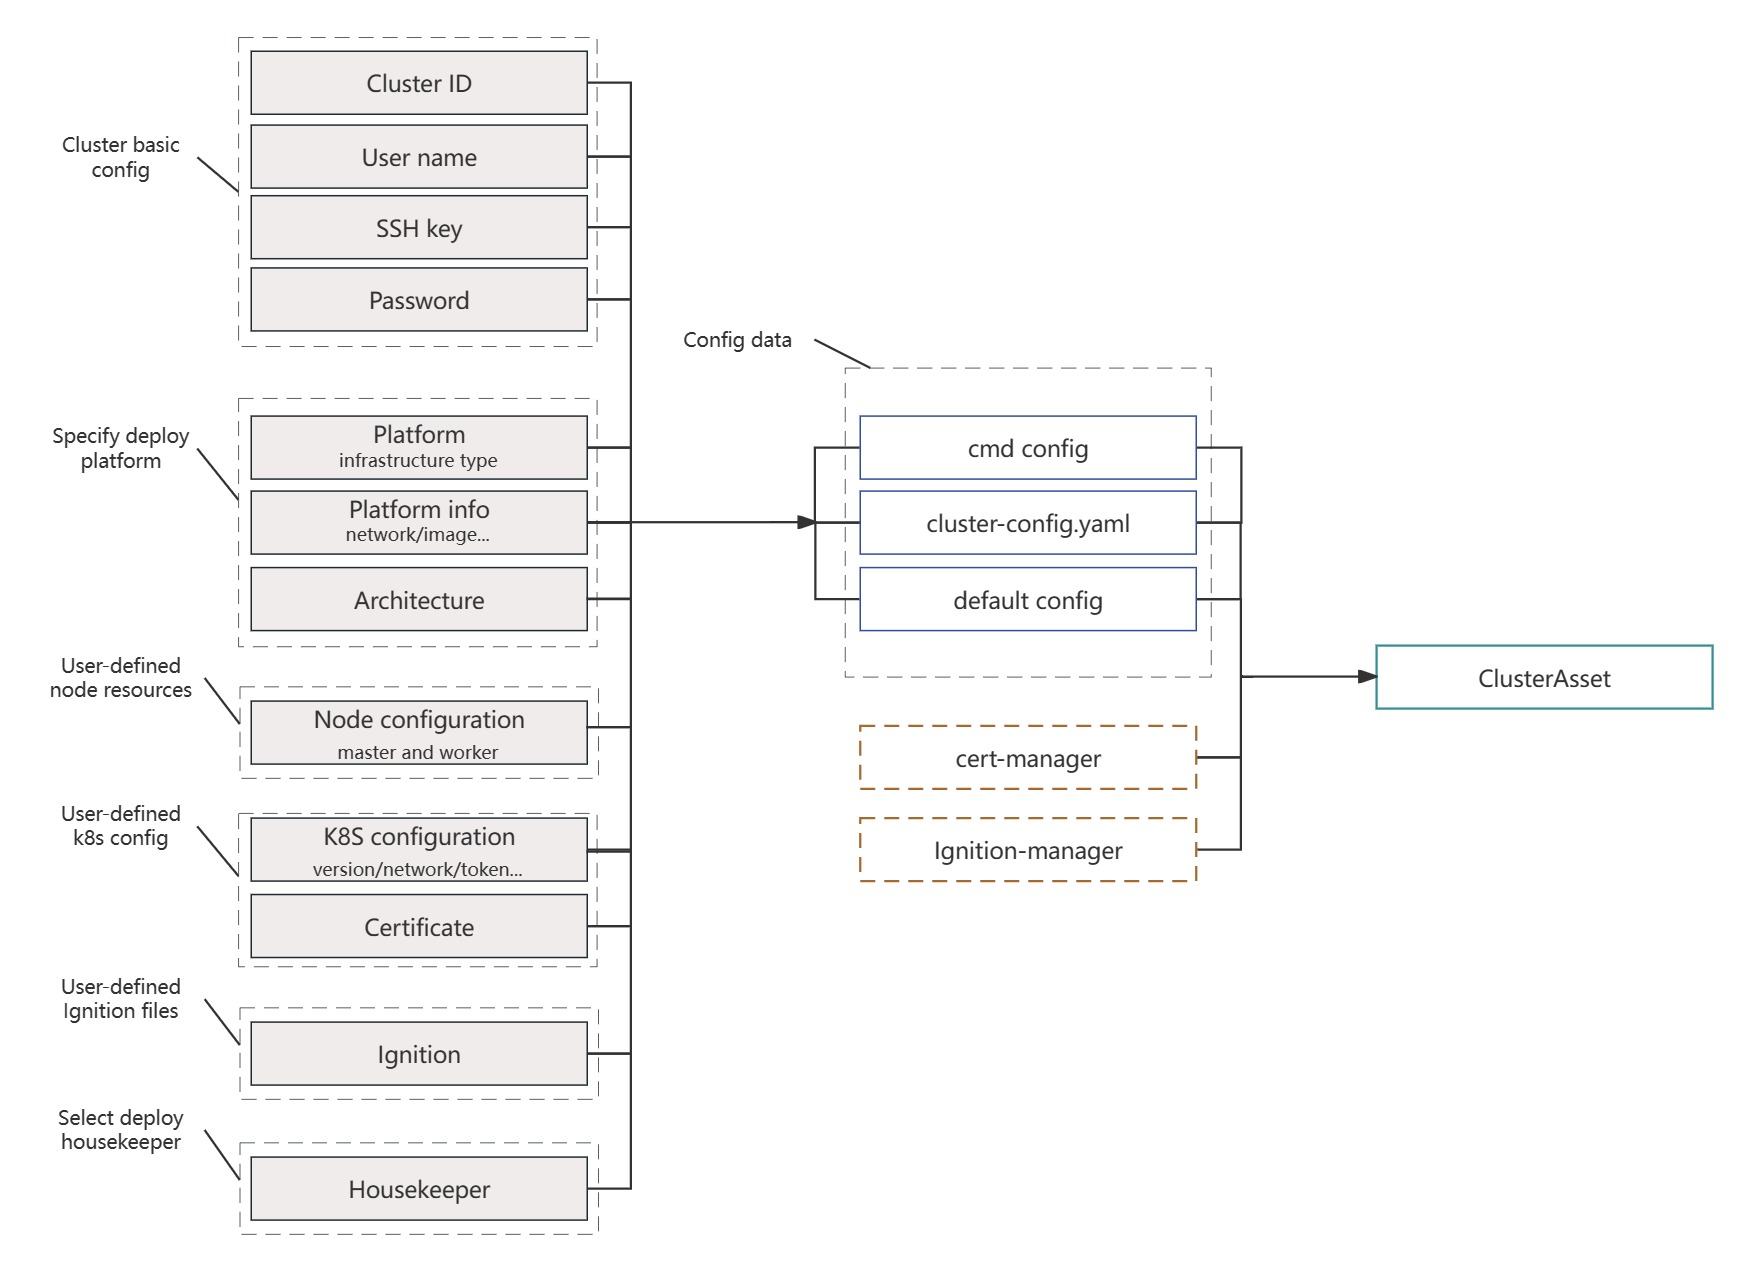
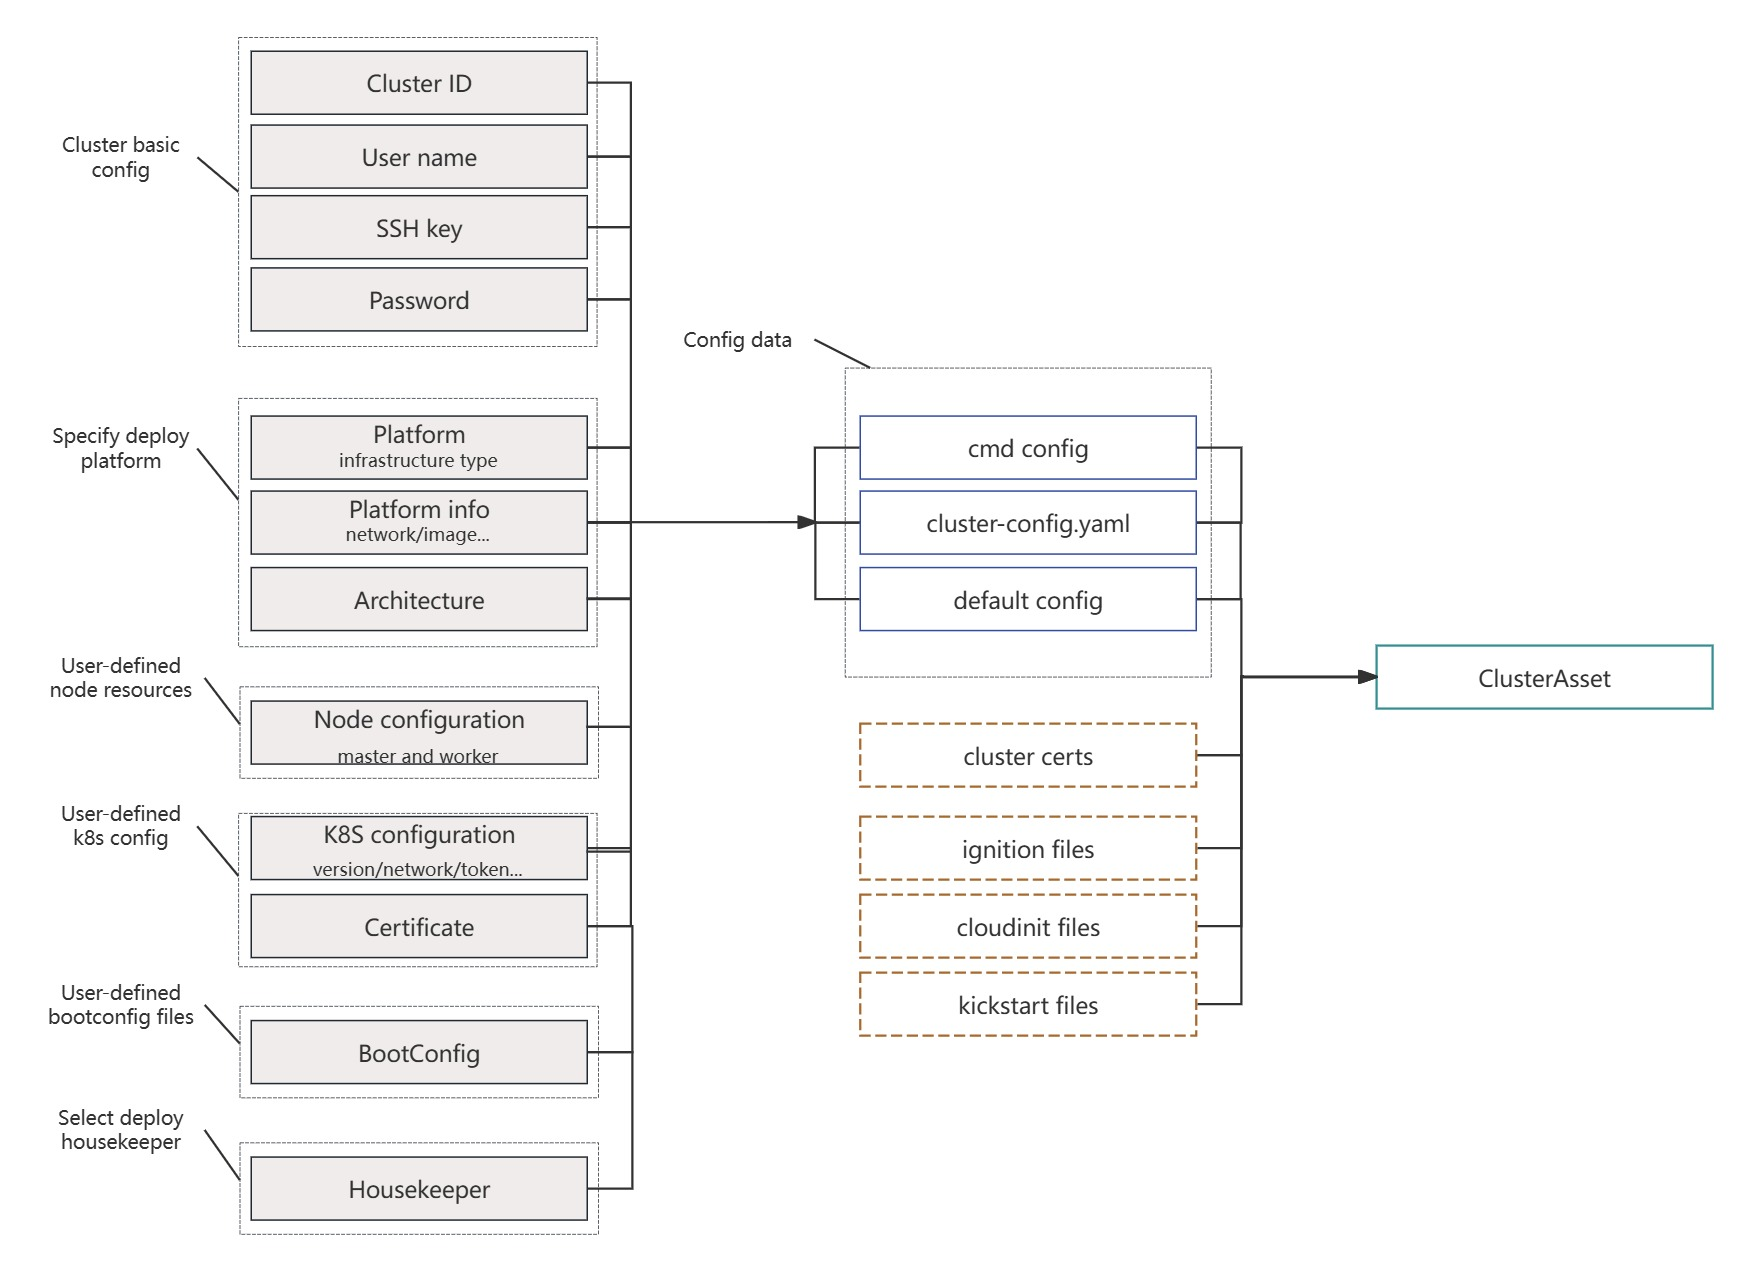
Improve user documentation

diff --git a/pkg/configmanager/asset/clusterasset.go b/pkg/configmanager/asset/clusterasset.go
@@ -206,7 +206,7 @@ type Kubernetes struct {
 	PauseImage           string `yaml:"pauseImage"`
 	ReleaseImageURL      string `yaml:"releaseImageURL"`
 	Token                string
-	AdminKubeConfig      string   `yaml:"adminKubeConfig"`
+	AdminKubeConfig      string   `yaml:"adminKubeconfig"`
 	CertificateKey       string   `yaml:"certificateKey"`
 	CaCertHash           string   `json:"-" yaml:"-"`
 	PackageList          []string `json:"packageList" yaml:"packageList,omitempty"`

diff --git a/docs/zh/overall_design.md b/docs/zh/overall_design.md
@@ -22,26 +22,22 @@
 NKD模块交互关系图
 ![detailed_design](/docs/zh/figures/detailed_design.jpg)
 
-### config-manager模块设计
+### 配置管理模块设计
 NKD部署集群提供了不同的应用配置方式，以方便不同的用户使用这款部署工具。
  - 体验部署一个基础集群，仅部署一个master和worker节点的小型集群，配置项参数使用默认配置，这样可以直接执行部署命令，且不用添加任何配置项；
  - 更精细化的配置各项参数，通过应用配置文件部署高可用集群；
  - 更灵活方便的配置集群，通过添加命令行参数部署高可用集群。
 
-命令行参数的优先级最高，配置文件次之。如果部署集群同时应用了配置文件和命令行参数，在配置参数项相同时，命令行参数会将配置文件内容覆盖。
-如果用户没有配置参数，NKD会自动生成该项参数或者使用默认配置，例如集群证书、Ignition文件等。config-manager模块会纳管集群的所有配置项参数，并存储在磁盘中。NKD部署集群依赖项如图：
+命令行参数的优先级最高，其次是配置文件。当部署集群时，如果同时应用了配置文件和命令行参数，并且两者存在相同的配置项，则命令行参数会覆盖配置文件中的内容。如果用户没有提供配置参数，NKD会自动生成该参数或使用默认配置。配置管理模块负责管理集群的所有配置项，并将其存储在磁盘中。NKD部署集群的依赖关系如下图所示：
 ![config_manager_design](/docs/zh/figures/config_manager_design.jpg)
 
-### cert-manager模块设计
-集群节点的创建、资源的访问都依赖证书，NKD在集群外创建证书并本地存储ca证书和admin.conf文件，更详细内容见[设计文档](./certmanager_design.md)，创建完成的证书通过Ignition文件写入到节点机器。证书创建流程如图：
-
+### 证书模块设计
+集群节点的创建、资源的访问都依赖证书，NKD在集群外创建证书并本地存储ca证书和admin.conf文件，更详细内容见[设计文档](./certmanager_design.md)。证书创建流程如图：
 ![certmanager_design](/docs/zh/figures/certmanager_design.jpg)
 
-### Ignition模块设计
-NKD在创建基础设施时，需要通过ignition点火机制传入系统部署后所需的动态配置，详细内容见[设计文档](./ignition_design.md)。并且支持通过命令行参数或配置文件将用户配置转换为ignition文件。节点在部署完成操作系统引导后，通过Ignition机制在操作系统引导阶段自动完成集群创建，无需手动干预。集群各节点的Ignition文件创建流程如图：
-![ignition_design](/docs/zh/figures/ignition_design.jpg)
+### 点火模块设计
+在创建基础设施时，NKD 需要通过点火机制传入系统部署后所需的动态配置，以支持用户部署Kubernetes资源。点火机制能够将用户编写的配置文件转化为机器引导时的配置文件。对于不可变基础设施的操作系统，点火模块将生成Ignition文件。如果底层操作系统为通用操作系统，则在虚拟化平台部署集群时会生成cloudInit 文件，而在裸金属平台部署集群时会生成kickstart文件。详细内容见[设计文档](./ignition_design.md)。
 
 ### housekeeper模块设计
 在集群部署阶段，用户可以选择是否部署housekeeper
 详细内容见[设计文档](./housekeeper_design.md)
-

diff --git a/docs/zh/globalconfig_file_desc.md b/docs/zh/globalconfig_file_desc.md
@@ -3,6 +3,6 @@
 ``` shell
 persistdir: /etc/nkd            # 文件存储路径，包括全局配置文件、集群配置文件以及证书文件等。默认路径：/etc/nkd           
 bootstrapurl:
-  bootstrap_ign_host: ""        # 点火服务地址（域名或ip，一般为NKD运行环境）
-  bootstrap_ign_port: "9080"    # 点火服务端口（默认9080，需自行开放防火墙端口）
+  bootstrapIgnHost: ""        # 点火服务地址（域名或ip，一般为NKD运行环境）
+  bootstrapIgnPort: "9080"    # 点火服务端口（默认9080，需自行开放防火墙端口）
 ```  
